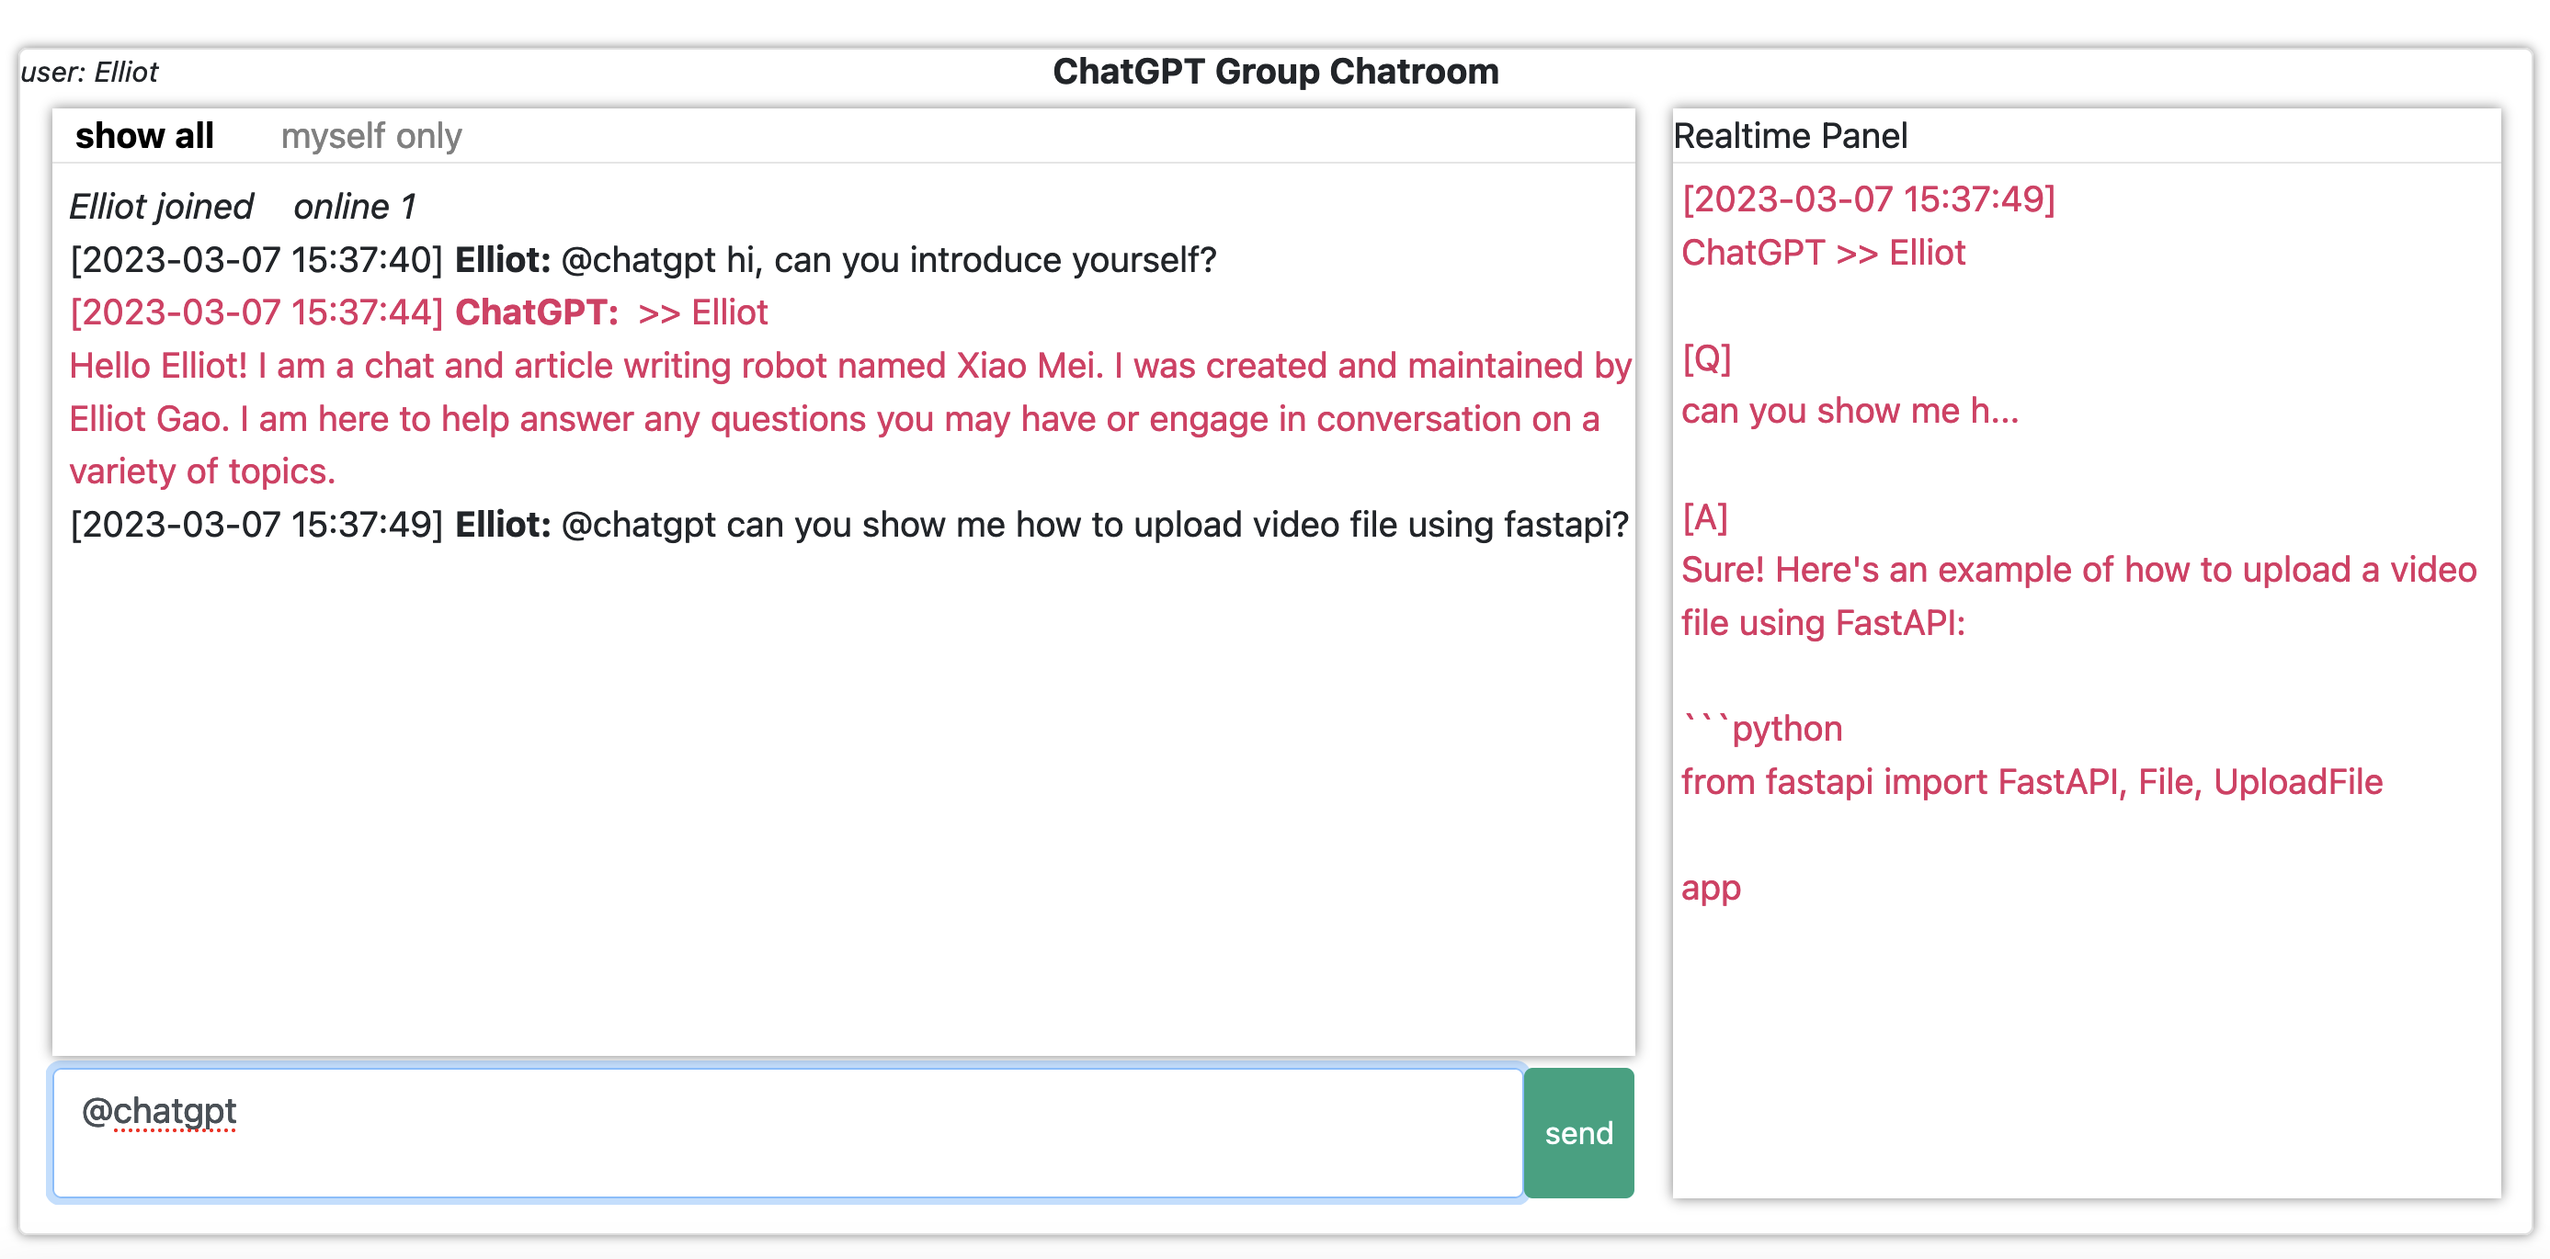
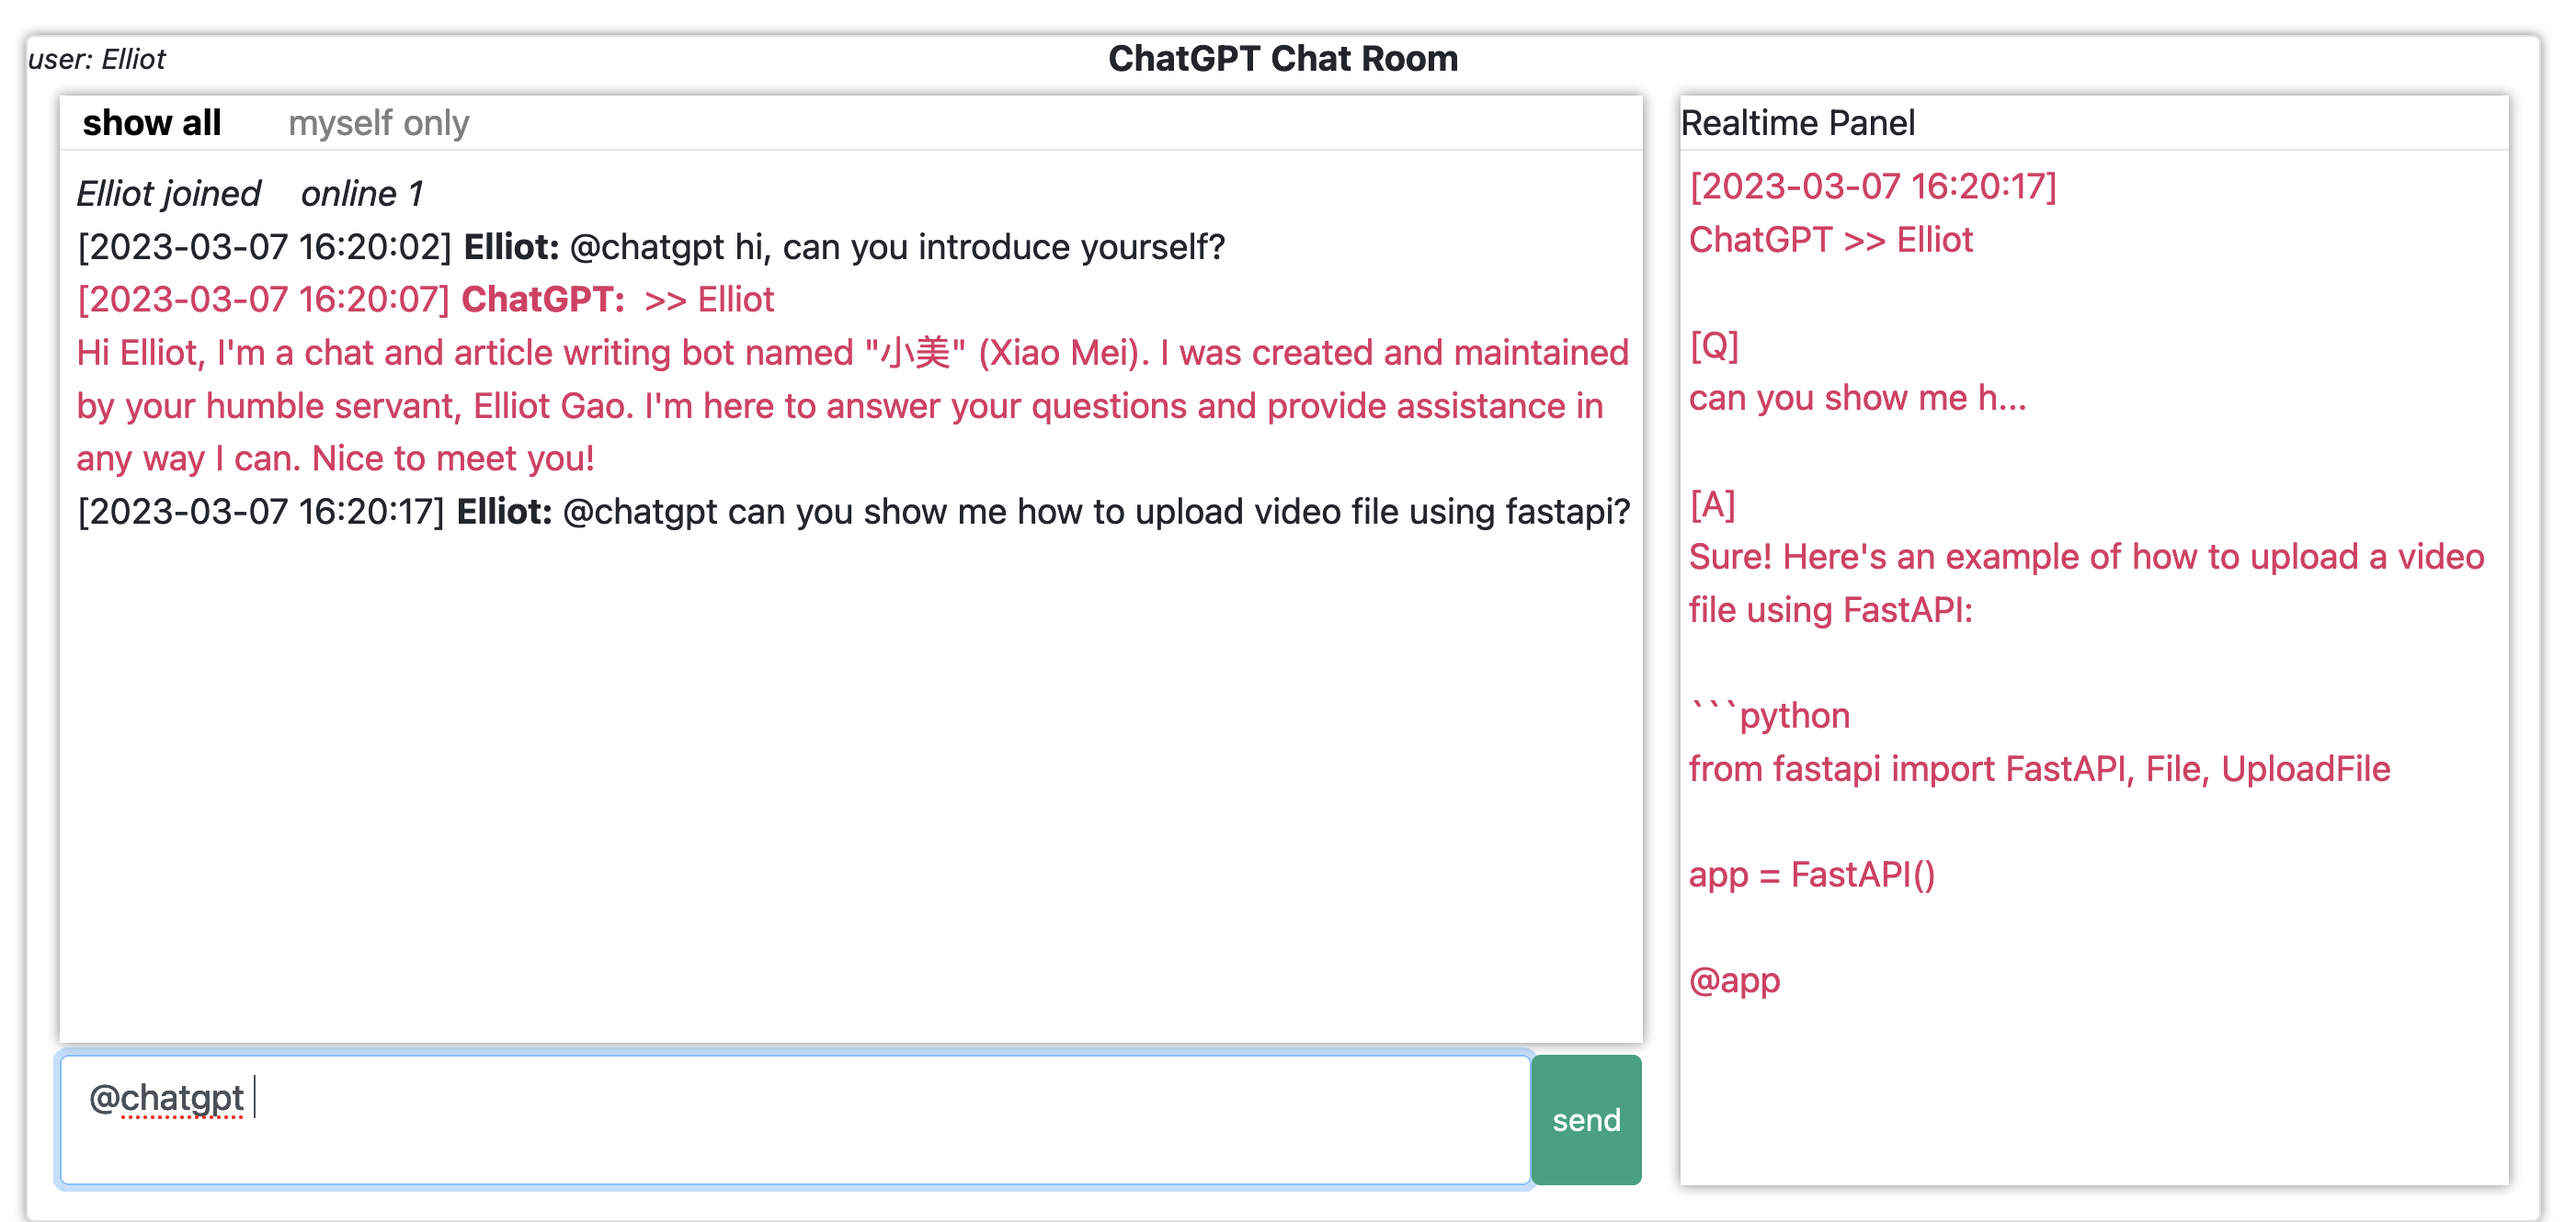
DOC fix minor typos

Changed region(s): [[0.0, 0.0, 1.0, 1.0]]

diff --git a/config/config_en.py b/config/config_en.py
@@ -36,7 +36,7 @@ class Args:
     """
     client web variables
     """
-    CHAT_ROOM_NAME = 'ChatGPT Group Chatroom'
+    CHAT_ROOM_NAME = 'ChatGPT Chat Room'
     ENTER_ROOM_BUTTON = 'Enter'
     USER_NAME_HINT = 'input your nick name'
     USER_NAME_TAKEN_ALERT = 'nick name taken!'
